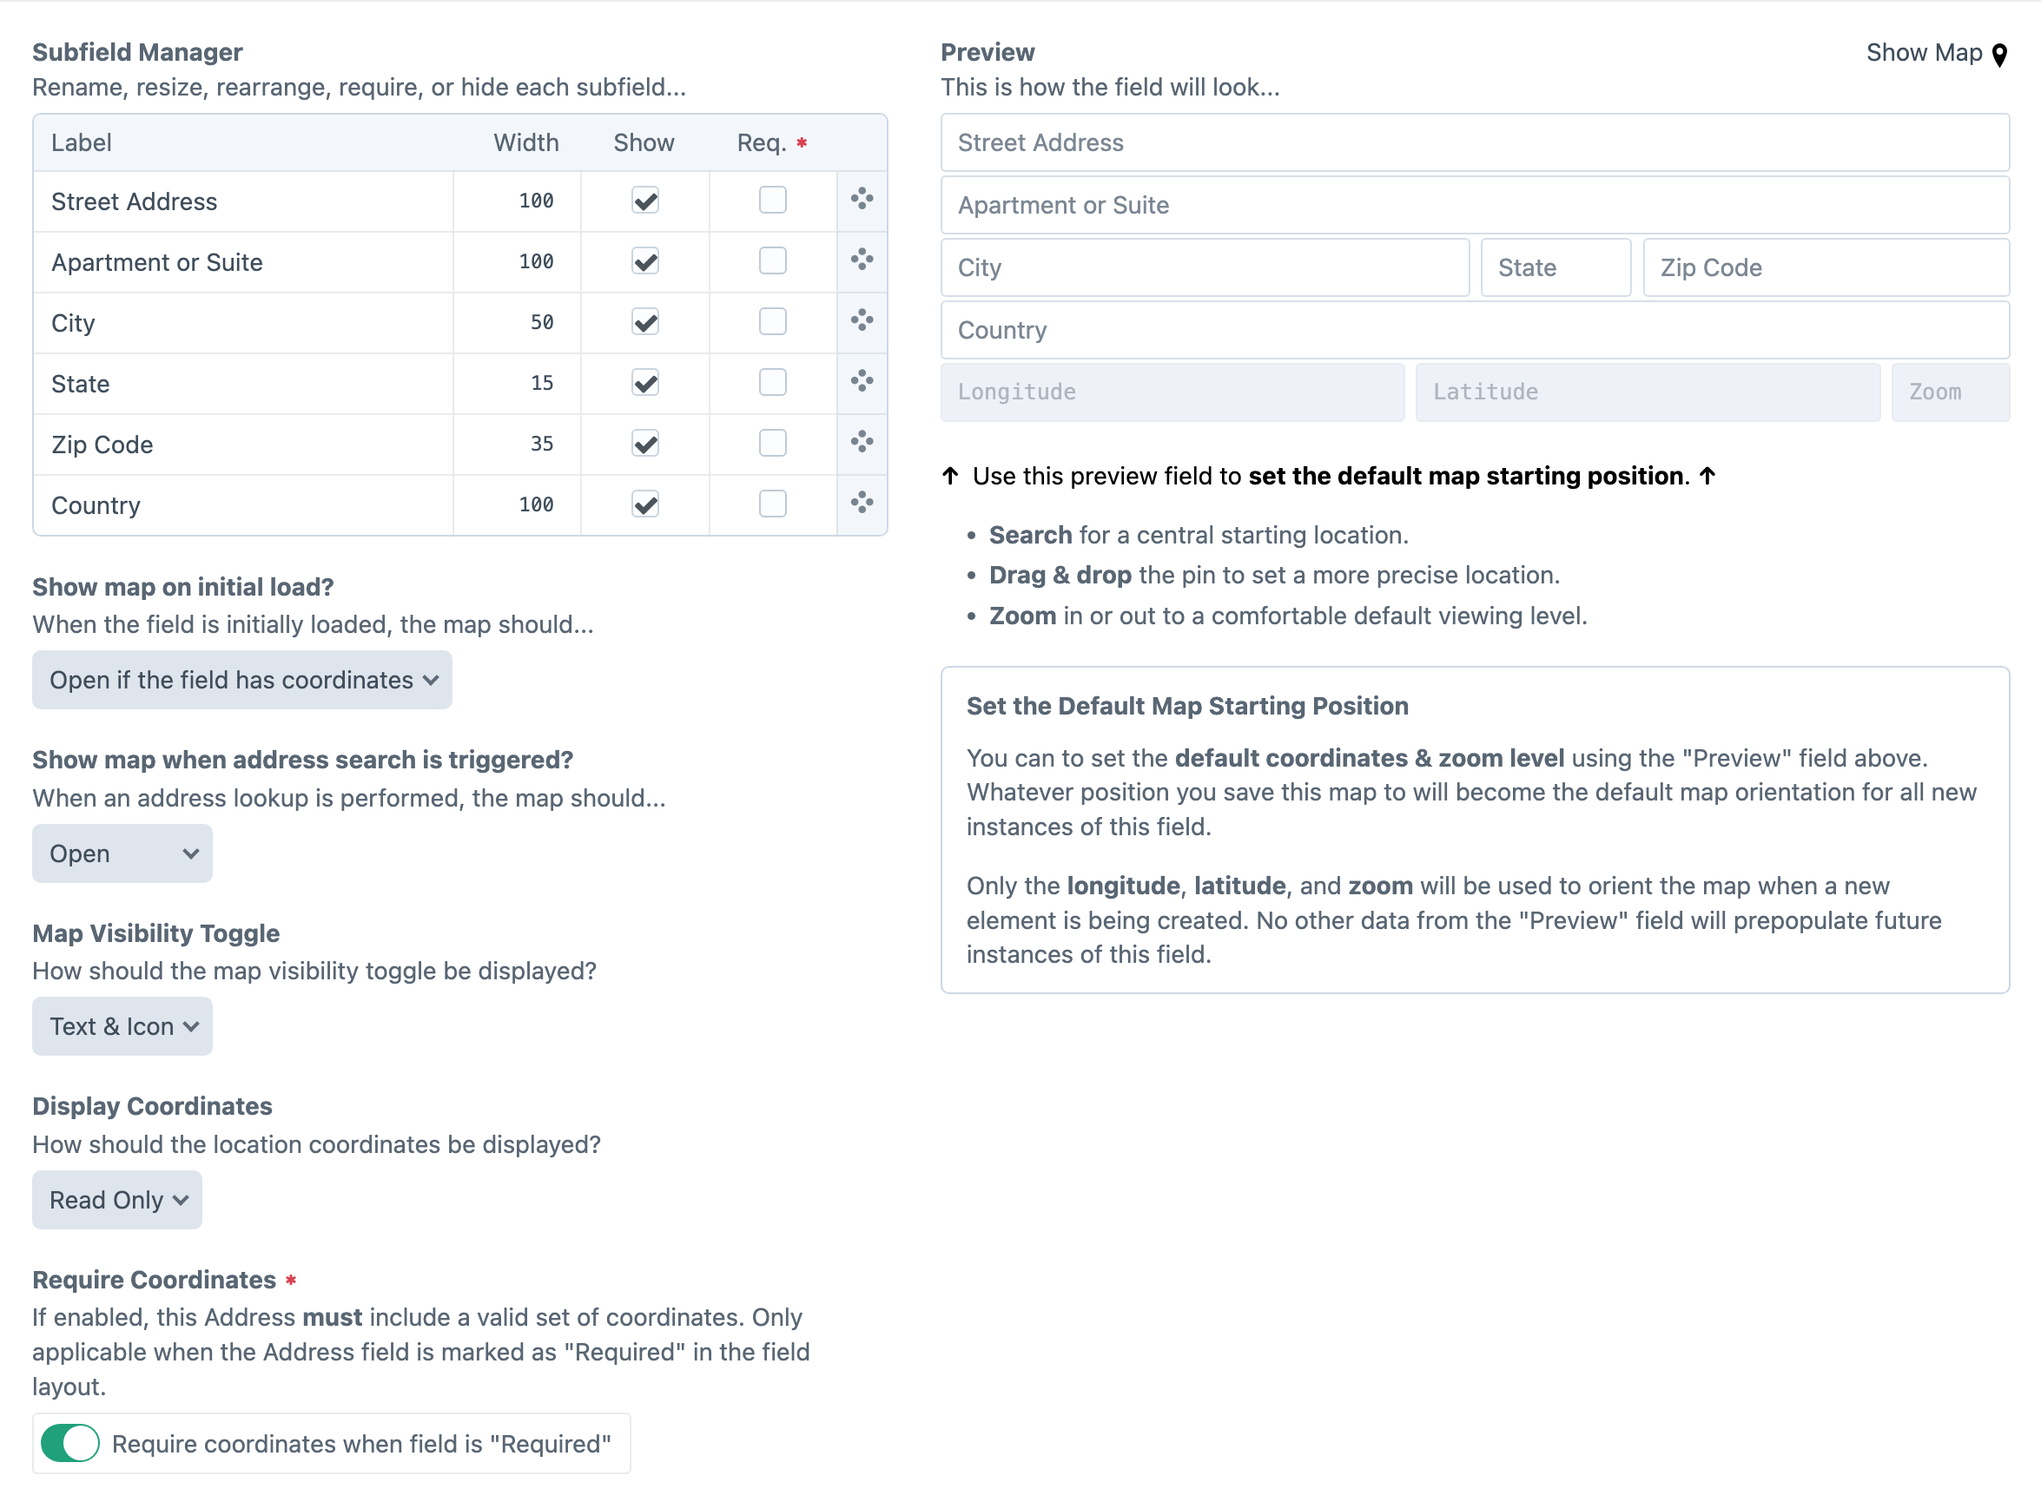
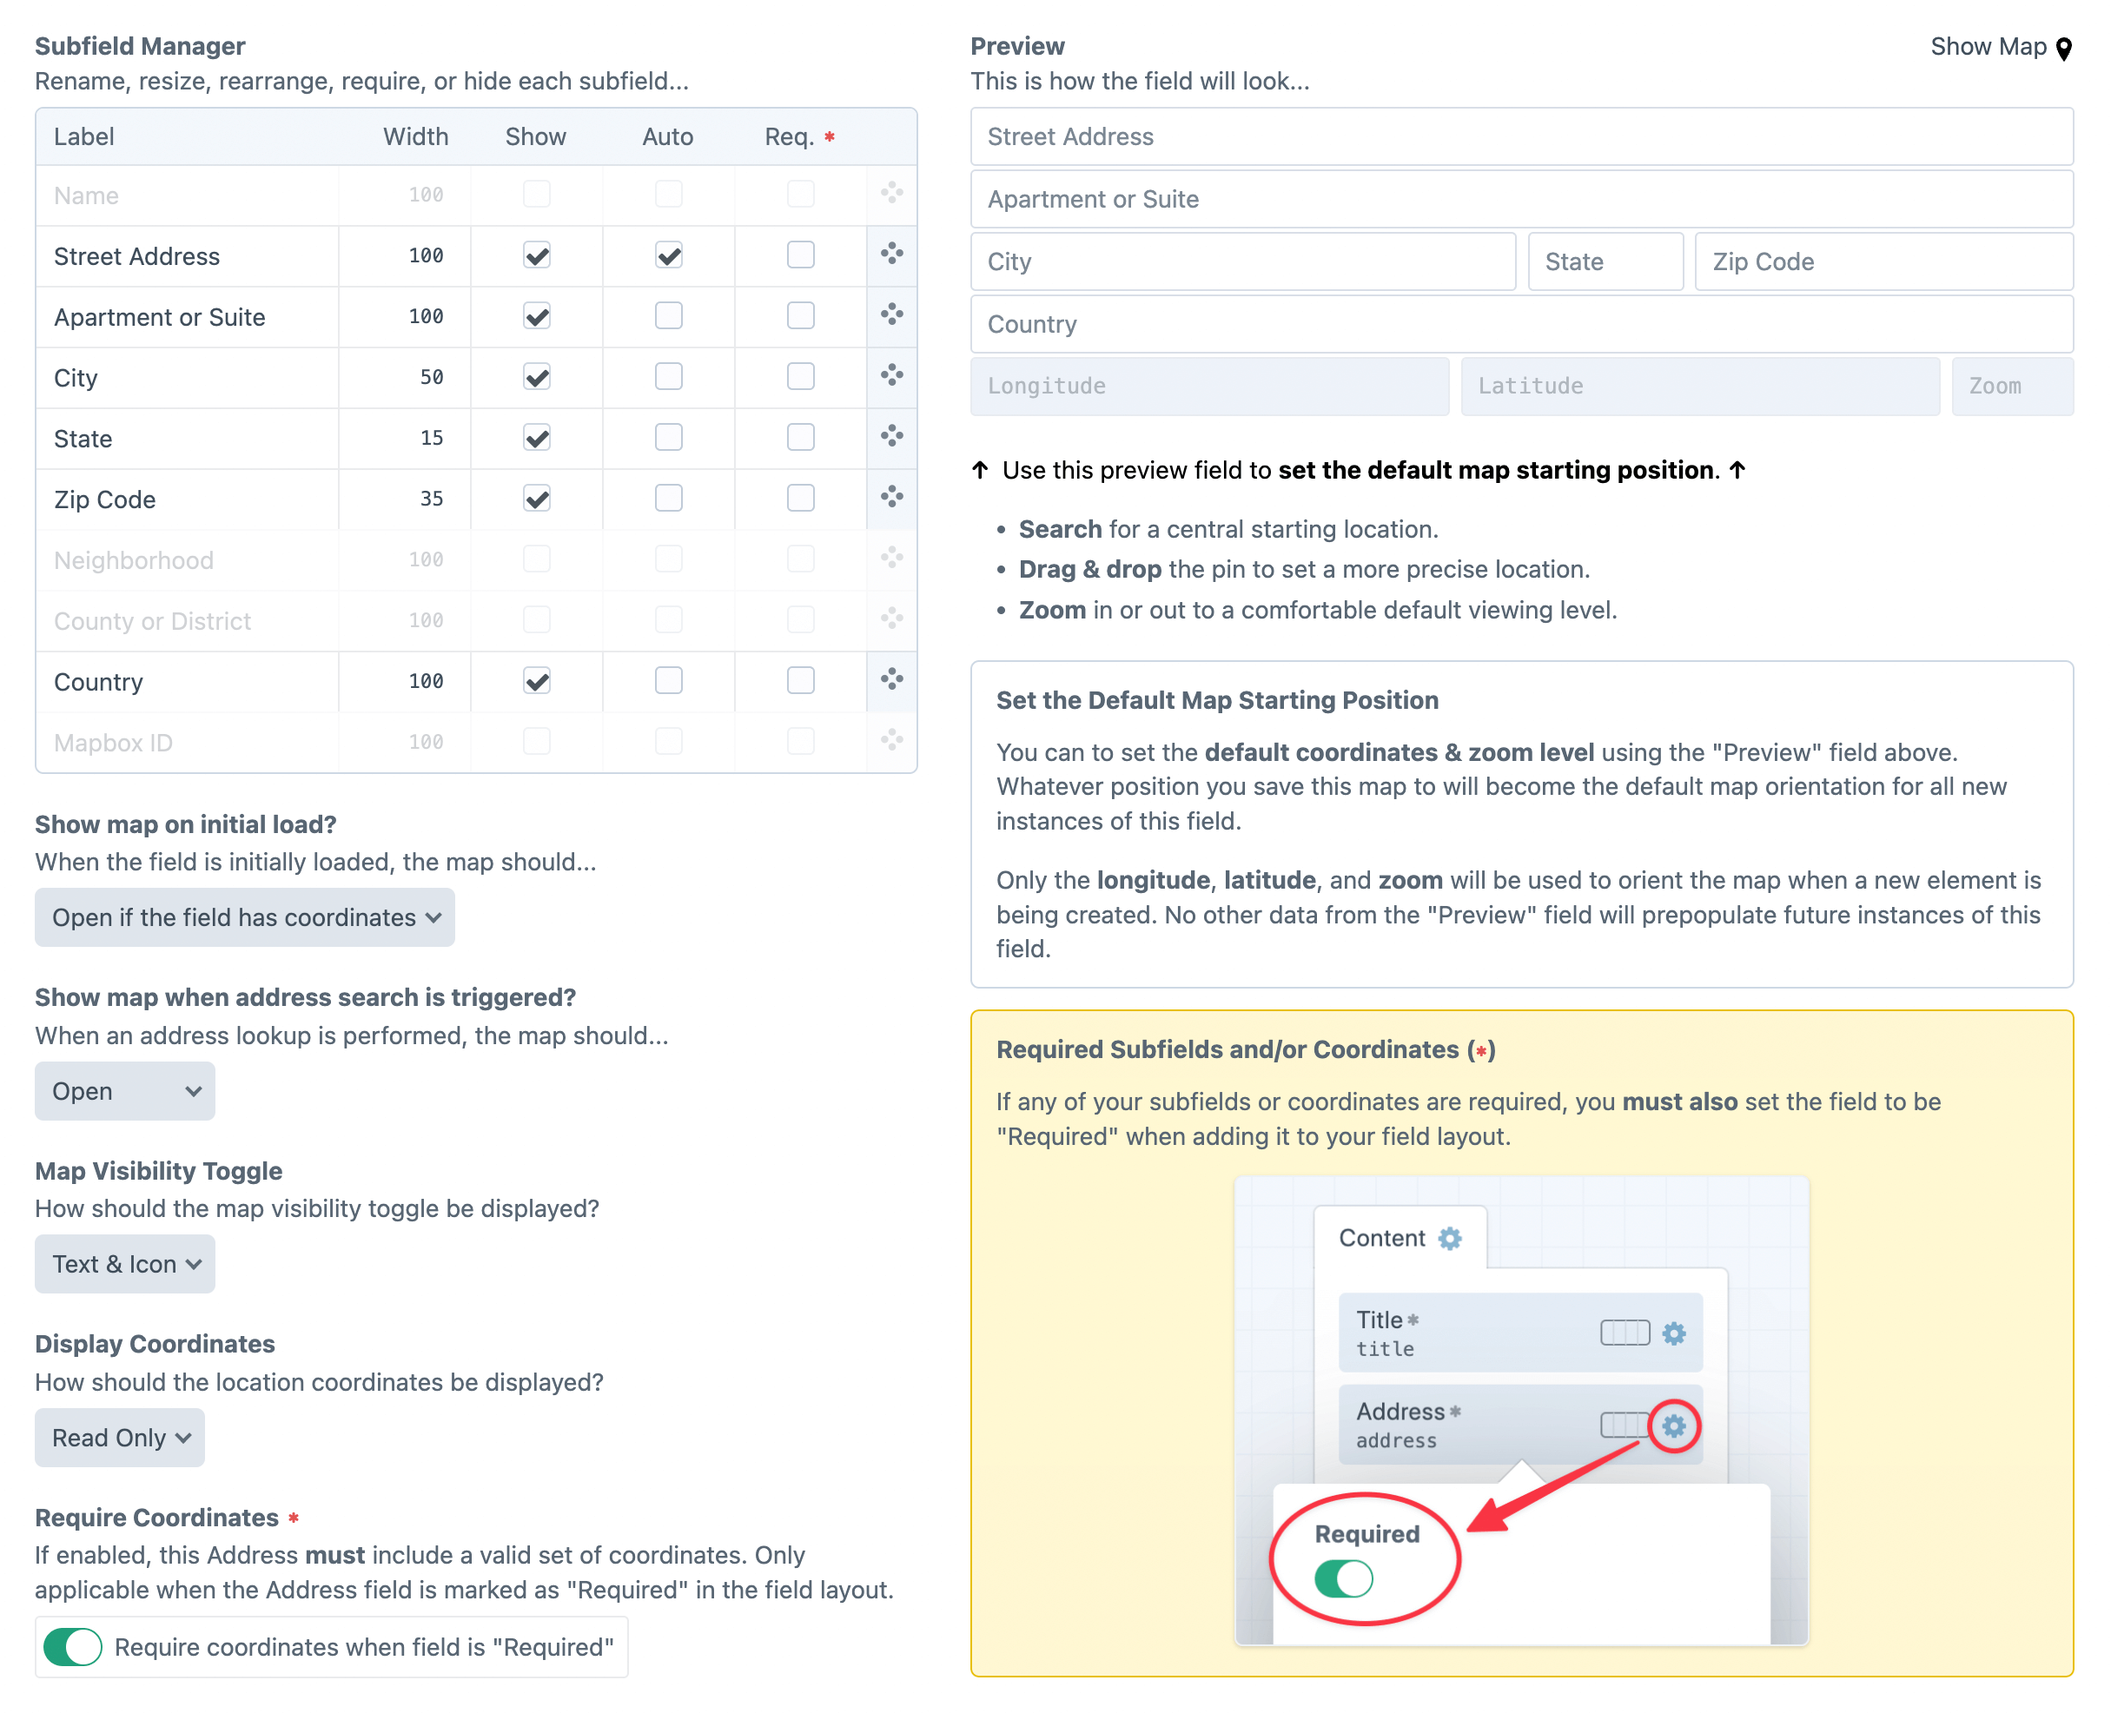
Can convert Address fields from Google Maps plugin

diff --git a/docs/.vuepress/config.js b/docs/.vuepress/config.js
@@ -64,6 +64,7 @@ module.exports = {
                         {text: 'Changing the Map Language', link: '/guides/changing-map-language/'},
                         {text: 'Prevent Zoom When Scrolling', link: '/guides/prevent-zoom-when-scrolling/'},
                         {text: 'Bermuda Triangle', link: '/guides/bermuda-triangle/'},
+                        {text: 'Converting from Google Maps', link: '/guides/converting-from-google-maps/'},
                     ] },
                 ]
             },
@@ -158,6 +159,7 @@ module.exports = {
                         'changing-map-language',
                         'prevent-zoom-when-scrolling',
                         'bermuda-triangle',
+                        'converting-from-google-maps',
                     ]
                 },
             ],

diff --git a/src/MapboxPlugin.php b/src/MapboxPlugin.php
@@ -15,12 +15,14 @@ use Craft;
 use craft\base\Field;
 use craft\base\Model;
 use craft\base\Plugin;
+use craft\events\ConfigEvent;
 use craft\events\ModelEvent;
 use craft\events\PluginEvent;
 use craft\events\RegisterComponentTypesEvent;
 use craft\helpers\UrlHelper;
 use craft\services\Fields;
 use craft\services\Plugins;
+use craft\services\ProjectConfig;
 use doublesecretagency\mapbox\fields\AddressField;
 use doublesecretagency\mapbox\models\Settings;
 use doublesecretagency\mapbox\web\twig\Extension;
@@ -61,6 +63,9 @@ class MapboxPlugin extends Plugin
 
         // Register all events
         $this->_registerFieldType();
+
+        // Manage conversions of the Address field
+        $this->_manageFieldTypeConversions();
 
         // Redirect after plugin install
         $this->_postInstallRedirect();
@@ -109,6 +114,84 @@ class MapboxPlugin extends Plugin
             Fields::EVENT_REGISTER_FIELD_TYPES,
             static function (RegisterComponentTypesEvent $event) {
                 $event->types[] = AddressField::class;
+            }
+        );
+    }
+
+    /**
+     * Manage conversions of the Address field from the Google Maps plugin.
+     *
+     * @return void
+     */
+    private function _manageFieldTypeConversions(): void
+    {
+        // If Google Maps plugin is not installed, bail
+        if (!Craft::$app->getPlugins()->isPluginEnabled('google-maps')) {
+            return;
+        }
+
+        // When a single project config line gets updated
+        Event::on(
+            ProjectConfig::class,
+            ProjectConfig::EVENT_UPDATE_ITEM,
+            static function (ConfigEvent $event) {
+
+                // Get old and new types
+                $oldType = $event->oldValue['type'] ?? null;
+                $newType = $event->newValue['type'] ?? null;
+
+                // If old type wasn't a Google Maps Address field, bail
+                if (!($oldType === 'doublesecretagency\googlemaps\fields\AddressField')) {
+                    return;
+                }
+
+                // If new type is not a Mapbox Address field, bail
+                if (!($newType === 'doublesecretagency\mapbox\fields\AddressField')) {
+                    return;
+                }
+
+                // Get the field's UID
+                $uid = str_replace('fields.', '', $event->path);
+
+                // Get the actual field
+                $field = Craft::$app->getFields()->getFieldByUid($uid);
+
+                // If unable to get the field, bail
+                if (!$field) {
+                    return;
+                }
+
+                // List of columns to copy between tables
+                $columns = [
+                    'elementId', 'fieldId',
+                    'formatted', 'raw',
+                    'name', 'street1', 'street2',
+                    'city', 'state', 'zip',
+                    'county', 'country',
+                    'lng', 'lat', 'zoom',
+                    'dateCreated', 'dateUpdated', 'uid'
+                ];
+
+                // Merge and escape column names
+                $columns = '[['.implode(']],[[', $columns).']]';
+
+                // Copy field's rows from `googlemaps_addresses` into `mapbox_addresses`
+                $sql = "
+INSERT INTO [[mapbox_addresses]] ({$columns})
+SELECT {$columns}
+FROM [[googlemaps_addresses]]
+WHERE [[fieldId]] = :fieldId
+  AND NOT EXISTS (
+    SELECT 1
+    FROM [[mapbox_addresses]]
+    WHERE [[mapbox_addresses]].[[uid]] = [[googlemaps_addresses]].[[uid]]
+)";
+
+                // Execute the SQL statement
+                \Yii::$app->db->createCommand($sql)
+                    ->bindValues([':fieldId' => $field->id])
+                    ->execute();
+
             }
         );
     }

diff --git a/src/migrations/m231009_212501_announcements_v1_1.php b/src/migrations/m231009_212501_announcements_v1_1.php
@@ -1,0 +1,62 @@
+<?php
+/**
+ * Mapbox plugin for Craft CMS
+ *
+ * Maps in minutes. Powered by the Mapbox API.
+ *
+ * @author    Double Secret Agency
+ * @link      https://plugins.doublesecretagency.com/
+ * @copyright Copyright (c) 2023 Double Secret Agency
+ */
+
+namespace doublesecretagency\mapbox\migrations;
+
+use Craft;
+use craft\db\Migration;
+use craft\i18n\Translation;
+
+/**
+ * m231009_212501_announcements_v1_1 Migration
+ * @since 1.1.0
+ */
+class m231009_212501_announcements_v1_1 extends Migration
+{
+
+    /**
+     * @inheritdoc
+     */
+    public function safeUp(): bool
+    {
+        // Get announcements services
+        $announcements = Craft::$app->getAnnouncements();
+
+        // New & Improved Address Lookups
+        $announcements->push(
+            Translation::prep('mapbox', 'New & Improved Address Lookups'),
+            Translation::prep('mapbox', 'The updated Address field returns much better lookup results, and now lets you search by store names.'),
+            'mapbox'
+        );
+
+        // Custom Marker Icons
+        $announcements->push(
+            Translation::prep('mapbox', 'Custom Marker Icons'),
+            Translation::prep('mapbox', 'It\'s now simple to use [custom marker icons]({docsUrl}) on a dynamic map.', [
+                'docsUrl' => 'https://plugins.doublesecretagency.com/mapbox/guides/setting-marker-icons/#image-as-marker-icon',
+            ]),
+            'mapbox'
+        );
+
+        // Success
+        return true;
+    }
+
+    /**
+     * @inheritdoc
+     */
+    public function safeDown(): bool
+    {
+        echo "m231009_212501_announcements_v1_1 cannot be reverted.\n";
+        return false;
+    }
+
+}

diff --git a/src/fields/AddressField.php b/src/fields/AddressField.php
@@ -121,7 +121,7 @@ class AddressField extends Field implements PreviewableFieldInterface
      */
     public static function displayName(): string
     {
-        return Craft::t('mapbox', 'Address');
+        return Craft::t('mapbox', 'Address (Mapbox)');
     }
 
     /**

diff --git a/docs/guides/setting-marker-icons.md b/docs/guides/setting-marker-icons.md
@@ -143,9 +143,27 @@ In the JavaScript console, you should see a complete play-by-play of every map c
 
 ## Image as Marker Icon
 
-When you need more control than just changing the marker's color, you can alternatively specify a **DOM element** to use as the marker icon. This can be done using the `element` option.
+When you need more control than just changing the marker's color, it's possible to use your own `<img>` (or other HTML) for custom marker icons.
 
-Simply reference the `id` of an _existing_ DOM element...
+<img class="dropshadow" :src="$withBase('/images/guides/custom-marker-icons.png')" alt="Screenshot of map with custom marker icons" width="710" style="margin-top:10px">
+
+1. Start by adding the marker icon element to the DOM...
+
+```html
+<div style="display: none">
+    <img id="custom-marker-icon" src="path/to/icon/image.png">
+</div>
+```
+
+:::warning Element must exist, but can be hidden
+The specified element must exist in the DOM before the map is rendered.
+
+However, you can safely store it within a hidden (`display: none`) container.
+:::
+
+2. When adding `markers`, specify the existing DOM element within the [`markerOptions` option](/dynamic-maps/universal-methods/#markers-locations-options).
+
+Use the `element` parameter to reference the DOM element by its `id`...
 
 :::code
 ```js
@@ -169,37 +187,15 @@ $markerOptions = [
 :::
 
 :::tip Anchor
-You'll probably also need to specify the [`anchor` option](https://docs.mapbox.com/mapbox-gl-js/api/markers/#marker-parameters). By default, Mapbox will try to align the _center_ of your icon with its corresponding coordinates.
+You will likely also need to specify the [`anchor` parameter](https://docs.mapbox.com/mapbox-gl-js/api/markers/#marker-parameters). By default, Mapbox will try to align the _center_ of your icon with its corresponding coordinates.
 :::
 
-Your implementation may vary slightly depending on whether you are working with JavaScript or Twig/PHP.
+---
+---
 
-### Twig/PHP
+### JavaScript Only
 
-If you are working with Twig or PHP, the DOM element **must already exist** within the rendered HTML.
-
-You can simply reference the existing DOM element by its `id` attribute...
-
-```twig
-<div style="display:none">
-    <img id="custom-marker-icon" src="https://placekitten.com/g/60/60/">
-</div>
-
-{% set markerOptions = {
-    'element': '#custom-marker-icon',
-    'anchor': 'bottom'
-} %}
-```
-
-:::warning Element must exist, but can be hidden
-The specified element must exist in the DOM before the map is rendered.
-
-However, you can safely store it within a hidden (`display:none`) container.
-:::
-
-### JavaScript
-
-If you are working with JavaScript, you can alternatively create a DOM element on the fly.
+If you are working with JavaScript, you can potentially create a DOM element on the fly.
 
 Use JavaScript to create a new dynamic DOM element, then pass in the entire `element`.
 
@@ -207,7 +203,7 @@ Use JavaScript to create a new dynamic DOM element, then pass in the entire `ele
 ```js
 // Dynamically create an image element
 const img = document.createElement('img');
-img.src = 'https://placekitten.com/g/60/60/';
+img.src = 'path/to/icon/image.png';
 
 // Use the new element as the marker icon
 const markerOptions = {

diff --git a/docs/guides/converting-from-google-maps.md b/docs/guides/converting-from-google-maps.md
@@ -1,0 +1,56 @@
+---
+description: If migrating from the Google Maps plugin, it's very simple to import all of your existing Address data into the Mapbox plugin.
+meta:
+  - property: og:type
+    content: website
+  - property: og:url
+    content: https://plugins.doublesecretagency.com/mapbox/guides/converting-from-google-maps/
+  - property: og:title
+    content: Converting from Google Maps | Mapbox plugin for Craft CMS
+  - property: og:description
+    content: If migrating from the Google Maps plugin, it's very simple to import all of your existing Address data into the Mapbox plugin.
+  - property: og:image
+    content: https://plugins.doublesecretagency.com/mapbox/images/guides/switch-field-type.png
+  - property: twitter:card
+    content: summary_large_image
+  - property: twitter:url
+    content: https://plugins.doublesecretagency.com/mapbox/guides/converting-from-google-maps/
+  - property: twitter:title
+    content: Converting from Google Maps | Mapbox plugin for Craft CMS
+  - property: twitter:description
+    content: If migrating from the Google Maps plugin, it's very simple to import all of your existing Address data into the Mapbox plugin.
+  - property: twitter:image
+    content: https://plugins.doublesecretagency.com/mapbox/images/guides/switch-field-type.png
+---
+
+# Converting from Google Maps
+
+## Importing Address Data
+
+Converting from an "Address (Google Maps)" field to an "Address (Mapbox)" field is relatively straightforward... simply **switch the field type** on the field's settings page.
+
+<img class="dropshadow" :src="$withBase('/images/guides/switch-field-type.png')" alt="Screenshot of field type select being switched to Mapbox (Address)" width="212" style="margin-left:20px; margin-bottom:4px;">
+
+:::warning Ignorable Warning ⚠
+You might be warned that these two field types are not compatible, but they actually are!
+
+It is safe to ignore the warning about field type compatibility.
+:::
+
+Once you have saved the field as an "Address (Mapbox)" field, all data associated with that field will automatically be imported into the Mapbox plugin.
+
+### One Field at a Time
+
+When you update a single field, only the data for that specific field will be converted. Each Address field will need to be updated individually.
+
+:::tip Field Configuration Not Included
+The field's **settings** will not be ported, only the field's existing **data** will be transferred over.
+
+You may still want to configure the Mapbox field to your liking, it will not automatically reflect how you had it configured with Google Maps.
+:::
+
+### Deploying to Production
+
+When deploying to a production environment, you'll most likely be using [Project Config](https://craftcms.com/docs/4.x/project-config.html) to keep all of your configuration settings in sync. Don't worry, there will be little (or no) action required on your part.
+
+All relevant Address data will be converted **once your Project Config changes are applied**.

diff --git a/CHANGELOG.md b/CHANGELOG.md
@@ -3,6 +3,7 @@
 ## Unreleased
 
 ### Added
+- Added ability to [convert Address fields](https://plugins.doublesecretagency.com/mapbox/guides/converting-from-google-maps/) from the Google Maps plugin.
 - Added support for [custom marker images](https://plugins.doublesecretagency.com/mapbox/guides/setting-marker-icons/#image-as-marker-icon). ([#9](https://github.com/doublesecretagency/craft-mapbox/issues/9))
 - Can now select which subfields will use autocomplete.
 - Addresses now include an optional [`name`](https://plugins.doublesecretagency.com/mapbox/models/address-model/#name) subfield. ([#4](https://github.com/doublesecretagency/craft-mapbox/issues/4))
